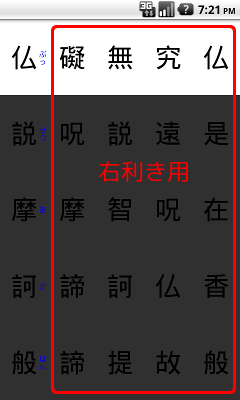
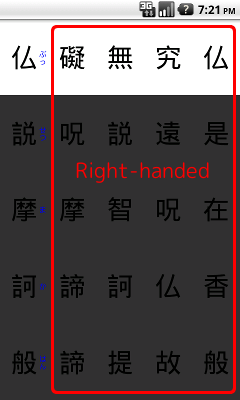
英語版の遊び方を追加した

Changed region(s): [[0.2917, 0.39, 0.875, 0.48]]

diff --git a/assets/usage.html b/assets/usage.html
@@ -1,7 +1,7 @@
 <html>
 <head>
 <meta http-equiv="Content-Type" content="text/html; charset=utf-8">
-<title>遊び方</title>
+<title>How To Play</title>
 <style type="text/css">
 h3 {
   border: solid;
@@ -30,101 +30,105 @@ li {
 </style>
 </head>
 <body>
-<h1>遊び方</h1>
-<h2>目次</h2>
+<h1>How To Play</h1>
+<h2>Table of contents</h2>
 <ol>
-<li><a href="#head1">1. はじめに</a></li>
-<li><a href="#head2">2. ゲームの開始の前に</a></li>
-<li><a href="#head3">3. 画面説明</a></li>
-<li><a href="#head4">4. ゲームのスタート</a></li>
-<li><a href="#head5">5. ゲームの一時停止</a></li>
-<li><a href="#head6">6. 278文字の旅</a></li>
-<li><a href="#head7">7. 最後に</a></li>
+<li><a href="#head1">1. Introduction</a></li>
+<li><a href="#head2">2. Before the start of the game</a></li>
+<li><a href="#head3">3. Screen Description</a></li>
+<li><a href="#head4">4. Start of the game</a></li>
+<li><a href="#head5">5. Pause game</a></li>
+<li><a href="#head6">6. Journey of 278 characters</a></li>
+<li><a href="#head7">7. At the end</a></li>
 </ol>
 
-<h3 id="head1">１．はじめに</h3>
-<p>このたびは、４時起きソフトの「よんたく般若心経」をダウンロードいただき、誠にありがとうございます。</p>
-<p>このアプリケーションは、般若心経をゲームで遊んでいるうちに覚えてしまおうという目的のもとに開発されました。</p>
-<p>ゲームをスタートしますと、画面に般若心経が縦書で表示されます（図1-A）。その横に４つの文字が表示されます（図1-B）。</p>
-<div><p>図1</p><img src="zu1.png" alt="図1"/></div>
-<p>この４つの文字の中から正しい文字を探してタップしていくゲームです。</p>
-<p>般若心経が読み進められるスピードは４段階（遅い・普通・早い・自分のペースで）があり、
-設定により調節可能です（インストール直後は自分のペースになっています）</p>
+<h3 id="head1">1. Introduction</h3>
+<p>Thank you, I have downloaded the "4 Choice Heart Sutra" of Yojiokisoft, Thank you very much.</p>
+<p>This application was developed on the basis of objective and that Let's remember while you are playing the game the Heart Sutra.</p>
+<p>When you start the game, Heart Sutra is displayed vertically on the screen (Figure1-A).Four characters will be displayed next to it (Figure1-B).</p>
+<div><p>Figure1</p><img src="zu1.png" alt="Figure1"/></div>
+<p>It is a game that will continue to tap to find the correct character from the character of these four.</p>
+<p>There are four levels of speed Heart Sutra can be read on (Slow, Normal, Fast, At one's own pace),
+It can be adjusted by setting. (I'm getting my own pace immediately after installation)</p>
 
-<h3 id="head2">２．ゲームの開始の前に</h3>
-<p>設定画面で以下の項目が調整可能です。お好みにより調整してください。</p>
-<h4>練習モード</h4>
-<p>チェックしますと練習モードになり、ブルームーンの大きなボタンが１つだけ表示されます（図2）。</p>
-<div><p>図2</p><img src="zu2.png" alt="図2"/></div>
-<p>４つの文字の中から文字を探す必要はなく、単に大きなボタンをタップするだけです。
-リズム感をつかむためや、リズムに乗って（あるいは自分のペースで）お経を唱える
-ときに使用できます。</p>
-<h4>読み上げる速さ</h4>
-<p>カーソル（白い背景の部分）が進んでいく速さを設定します。
-自分で、遅い、普通、早いの４段階の設定が可能です。
-「自分で」を選択した場合は、自動でカーソルは進まず、タップすることでカーソルが進んでいきます。</p>
-<h4>ボタン配置</h4>
-<p>右（右利き用）にしますと、４つの選択肢が右側に、般若心経（フリガナ付き）が左側に表示されます（図3）。</p>
-<div><p>図3</p><img src="zu3.png" alt="図3"/></div>
-<p>左（左利き用）にしますと、４つの選択肢が左側に、般若心経（フリガナ付き）が右側に表示されます（図4）</p>
-<div><p>図4</p><img src="zu4.png" alt="図4"/></div>
-<h4>合いの手の音</h4>
-<p>お経を唱えている途中で入るカーンとかチーンとかいう合いの手の音を設定します。いろんな音がありますのでお好みにより調節してください。
-もちろん、音を出さなくすることも可能です。</p>
-<h4>リズム音</h4>
-<p>ボタンをタップしたときの音を設定します。いろんな音がありますのでお好みにより調節してください。
-もちろん、音を出さなくすることも可能です。</p>
+<h3 id="head2">2. Before the start of the game</h3>
+<p>The following items can be adjusted in the Settings screen. Please adjust by preference.</p>
+<h4>Practice mode</h4>
+<p>It becomes a practice mode when I checked, big button blue moon appears only one (Figure2).</p>
+<div><p>Figure2</p><img src="zu2.png" alt="Figure2"/></div>
+<p>There is no need to look for a character from among the four characters, I just tap the large button simply.
+It can be used and seize the sense of rhythm, when (at your own pace or) recite the sutra to the rhythm.</p>
+<h4>The speed of read</h4>
+<p>I set the speed at which the (Part of white background) will proceed cursor.
+Set of four steps Slow, Normal, Fast, and By oneself are possible.
+If you select "By oneself", the cursor does not proceed automatically, the cursor will advance by tapping.</p>
+<h4>Button layout</h4>
+<p>When will the (right-handed) right, to the right, four choices are displayed on the left side is Heart Sutra (phonetic) with (Figure3).</p>
+<div><p>Figure3</p><img src="zu3.png" alt="Figure3"/></div>
+<p>When will the (left-handed) left, to the left, four choices are displayed on the right side is Heart Sutra (phonetic) with (Figure4).</p>
+<div><p>Figure4</p><img src="zu4.png" alt="Figure4"/></div>
+<h4>Accompaniment sound</h4>
+<p>You can set the sound of sideshow or something such as bing Khan entering while you are chanting sutras.
+Please adjust by preference because there is a lot of sound.
+Of course, it is also possible to not issue a sound.</p>
+<h4>Rhythm sound</h4>
+<p>You can set the sound when you tap the button.
+Please adjust by preference because there is a lot of sound.
+Of course, it is also possible to not issue a sound.</p>
 
-<h3 id="head3">３．画面説明</h3>
-<div><p>図5</p><img src="zu5.png" alt="図5"/></div>
-<h4>図5-A（青い部分）</h4>
-<p>般若心経が表示されます。設定画面のボタン配置が左利き用になっている場合は、右側に表示されます。</p>
-<p>ゲーム中にこの部分をタップしますとポーズ（一時停止）します。</p>
-<h4>図5-B（赤い部分）</h4>
-<p>４つの文字が表示されます。この中に１つだけ左側に表示されている般若心経と同じ文字がありますので、
-探してください。４つのうちのいずれかをタップしますと次の文字に進みます。
-<h4>図5-C（黄色い部分）</h4>
-<p>白い背景の部分が現在の読み上げ位置です。タップ、または一定時間が経過しますと
-自動で次の文字に進みます。一番下まで進みますと上に戻ります。<br>
-※設定画面の読み上げる速さが「自分で」の場合は、タップするまで次の文字には進みません。</p>
+<h3 id="head3">3. Screen Description</h3>
+<div><p>Figure5</p><img src="zu5.png" alt="Figure5"/></div>
+<h4>Figure5-A (Blue part)</h4>
+<p>Heart Sutra is displayed.If the button for the filter screen is left-handed, it is displayed on the right side.</p>
+<p>You pause and then tap this part during the game.</p>
+<h4>Figure5-B (Red part)</h4>
+<p>Four characters will be displayed.Because there is the same letter as the Heart Sutra, which is displayed on the left side only one in this,
+Please looking for.Proceed to the next character and tap any of the four.</p>
+<h4>Figure5-C (Yellow part)</h4>
+<p>Part of the white background is the current reading position.
+Proceed to the next character in a certain period of time or automatic tap, when you passed.
+To return to the top if you go to the bottom.<br>
+*In the case of "By oneself", the read speed of the configuration screen does not go to the next character until you tap.</p>
 
-<h3 id="head4">４．ゲームのスタート</h3>
-<p>最初の１文字をタップしますとゲームが開始されます。</p>
+<h3 id="head4">4. Start of the game</h3>
+<p>Game begins when you tap the first letter of the.</p>
 
-<h3 id="head5">５．ゲームの一時停止</h3>
-<p>般若心経の行（フリガナが振ってある文字、図5-A）をタップしますと一時停止します。（図6）</p>
-<div><p>図6</p><img src="zu6.png" alt="図6" class="waku"/></div>
-<p>再開するには、「再開」ボタンをタップするか、Androidの戻るキーを押します。</p>
-<p>「最初から始める」を選択しますと、ゲームの最初（１文字目）に戻ります。</p>
-<p>「オープニング画面に戻る」を選択しますと、起動直後のオープニング画面に戻ります。</p>
-<p>「ゲームの終了」を選択しますと、本アプリケーションを終了します。</p>
+<h3 id="head5">5. Pause game</h3>
+<p>To pause the tap (phonetic characters are and swept, Figure5-A) the line of Heart Sutra (Figure6).</p>
+<div><p>Figure6</p><img src="zu6.png" alt="Figure6" class="waku"/></div>
+<p>To resume, tap the "Resume" button, and press the key to return the Android.</p>
+<p>If you choose to "Start from th beginning", to return to the (first character) first game.</p>
+<p>If you choose to "Return to the opening screen", to return to the opening screen immediately after the start.</p>
+<p>If you select the "End of the game", and then exit the application.</p>
 
-<h3 id="head6">６．278文字の旅</h3>
-<p>般若心経は、全部で２７８文字あります。</p>
-<p>最後の２７８文字目まで読み進めていきますとゲーム終了です。（図7）</p>
-<div><p>図7</p><img src="zu7.png" alt="図7" class="waku"/></div>
-<p>お疲れ様でしたの下にスコアが表示されます。</p>
-<p>Levelには、スコアに応じて代表的な仏様が表示されます。最高ランクの釈迦如来を出された方は、人間を超越したまさに神レベルの方です。</p>
-<p>OKは正解の数、NGは間違いの数、SKは一定時間内にタップできずにスキップされた数、TMはかかった時間（秒）を表します。</p>
-<p>「リプレイ」を選択しますと、もう一度ゲームを行います。</p>
-<p>「オープニング画面に戻る」を選択しますと、起動直後のオープニング画面に戻ります。</p>
-<p>「ゲームの終了」を選択しますと、本アプリケーションを終了します。</p>
-<h4>ヒント</h4>
-<p>唱えるタイミングについて</p>
-<p>最初は、勝手にカーソルが進んでいくのでどのタイミングで唱えたらいいのか戸惑うかと思います。次の要領で唱えていただくように最適化しております。</p>
-<p>(1)白いカーソルの部分の文字を見て、なんと唱えたらいいかを把握します。（この時点ではまだ発声しない)</p>
-<p>(2)次に、実際に声に出して発声します。と同時に画面をタップします。（カーソルが次に進みます）
-<p>(3)(1)に戻り、繰り返します。</p>
-<p>ようは、白くなった瞬間に唱えるのではなく、カーソルが次に移るときに唱えます。</p>
-<p>なお、唱えるタイミングは、全国曹洞宗青年会さんの<a href="http://www.youtube.com/watch?v=InkJE2PMX3Y" alt="" target="_balnk">摩訶般若波羅蜜多心経</a>の動画を参考にさせていただきました。</p>
+<h3 id="head6">6. Journey of 278 characters</h3>
+<p>The Heart Sutra, there are 278 characters in total.</p>
+<p>It is the end of the game when I push forward reading to 278 character of the last (Figure7).</p>
+<div><p>Figure7</p><img src="zu7.png" alt="Figure7" class="waku"/></div>
+<p>Score appears at the bottom of was cheers for good work.</p>
+<p>The Level, Buddha typical will be displayed according to the score.
+Those who issued the Shaka-nyorai of highest rank, who of God is exactly level you transcend the human.</p>
+<p>OK The number of correct, NG is the number of mistakes, SK is the amount skipped without can tap within a certain period of time, TM represents the time (in seconds) it took.</p>
+<p>If you select the "Replay" to play the game again.</p>
+<p>If you choose to "Return to the opening screen", to return to the opening screen immediately after the start.</p>
+<p>If you select the "End of the game", and then exit the application.</p>
+<h4>Hint</h4>
+<p>The timing to cast</p>
+<p>At first, I think whether puzzled to do for chanting at any timing cursor will proceed on its own.
+We are optimized to get cast in the following manner.</p>
+<p>(1)Look at the character of the part of the white cursor, and then figure out how do I cast what. (It is not uttered at this point yet)</p>
+<p>(2)Next, Say it out loud actually.At the same time I tap the screen. (The cursor will continue)
+<p>(3)Go back to (1), and repeat.</p>
+<p>Short, instead of cast at the moment when it became white, and cast when the cursor moves next.</p>
+<p>The timing you cast it, I was allowed to reference the video of <a href="http://www.youtube.com/watch?v=InkJE2PMX3Y" alt="" target="_balnk">Prajna-paramita Hrdaya Sutram</a> in the All Japan Soto Young Priests Association.</p>
 
-<h3 id="head7">７．最後に</h3>
-<p>般若心経とは、大乗仏教の心髄が説かれている、ありがたいお経とされています。</p>
-<p>が、何回読んでも全く意味がわかりません。</p>
-<p>意味が分からないものを、意味もなく唱える、意味って何？</p>
-<p>意味が知りたくて、いろんな人のさまざまな解釈を読みましたが、ピンとこない。</p>
-<p>その中で、私がなるほどと理解できた動画をリンクしておきます。</p>
-<p><a href="http://www.youtube.com/watch?v=X9ebjqEUtYE" alt="" target="_balnk">宇宙論に対する仏教思想からの回答</a></p>
+<h3 id="head7">7. At the end</h3>
+<p>The Heart Sutra, it is being preached the essence of Mahayana Buddhism, and appreciate sutra.</p>
+<p>But, I do not know what sense at all times even after reading.</p>
+<p>What recite without a sense, what you do not know the meaning, meaning me?</p>
+<p>I wanted to know the meaning, I read a variety of interpretations of various people, but not really realize.</p>
+<p>Among them, you may want to link this video I was able to understand and as I made.</p>
+<p><a href="http://www.youtube.com/watch?v=X9ebjqEUtYE" alt="" target="_balnk">Responses from Buddhist thought to cosmology</a>(Japanese)</p>
 
 </body>
 </html>

diff --git a/assets/usage-ja.html b/assets/usage-ja.html
@@ -1,0 +1,130 @@
+<html>
+<head>
+<meta http-equiv="Content-Type" content="text/html; charset=utf-8">
+<title>遊び方</title>
+<style type="text/css">
+h3 {
+  border: solid;
+  border-width: 0px 0px 1px 10px;
+  padding: 5px;
+  border-color: #992222;
+  font-size: 120% ;
+}
+h4 {
+  background-image: url('triangle.gif');
+  background-repeat: no-repeat;
+  padding-left: 10px;
+  background-position: 0px 6px;
+}
+li {
+  list-style-type: none;
+  background-image: url('triangle.gif');
+  background-repeat: no-repeat;
+  background-position: 0px 6px;
+  text-indent: 18px;
+}
+.waku {
+  border: 1px #000000 solid;
+}
+*.rectangle  { border:solid 1px #ff0000; }
+</style>
+</head>
+<body>
+<h1>遊び方</h1>
+<h2>目次</h2>
+<ol>
+<li><a href="#head1">1. はじめに</a></li>
+<li><a href="#head2">2. ゲームの開始の前に</a></li>
+<li><a href="#head3">3. 画面説明</a></li>
+<li><a href="#head4">4. ゲームのスタート</a></li>
+<li><a href="#head5">5. ゲームの一時停止</a></li>
+<li><a href="#head6">6. 278文字の旅</a></li>
+<li><a href="#head7">7. 最後に</a></li>
+</ol>
+
+<h3 id="head1">１．はじめに</h3>
+<p>このたびは、４時起きソフトの「よんたく般若心経」をダウンロードいただき、誠にありがとうございます。</p>
+<p>このアプリケーションは、般若心経をゲームで遊んでいるうちに覚えてしまおうという目的のもとに開発されました。</p>
+<p>ゲームをスタートしますと、画面に般若心経が縦書で表示されます（図1-A）。その横に４つの文字が表示されます（図1-B）。</p>
+<div><p>図1</p><img src="zu1.png" alt="図1"/></div>
+<p>この４つの文字の中から正しい文字を探してタップしていくゲームです。</p>
+<p>般若心経が読み進められるスピードは４段階（遅い・普通・早い・自分のペースで）があり、
+設定により調節可能です（インストール直後は自分のペースになっています）</p>
+
+<h3 id="head2">２．ゲームの開始の前に</h3>
+<p>設定画面で以下の項目が調整可能です。お好みにより調整してください。</p>
+<h4>練習モード</h4>
+<p>チェックしますと練習モードになり、ブルームーンの大きなボタンが１つだけ表示されます（図2）。</p>
+<div><p>図2</p><img src="zu2.png" alt="図2"/></div>
+<p>４つの文字の中から文字を探す必要はなく、単に大きなボタンをタップするだけです。
+リズム感をつかむためや、リズムに乗って（あるいは自分のペースで）お経を唱える
+ときに使用できます。</p>
+<h4>読み上げる速さ</h4>
+<p>カーソル（白い背景の部分）が進んでいく速さを設定します。
+自分で、遅い、普通、早いの４段階の設定が可能です。
+「自分で」を選択した場合は、自動でカーソルは進まず、タップすることでカーソルが進んでいきます。</p>
+<h4>ボタン配置</h4>
+<p>右（右利き用）にしますと、４つの選択肢が右側に、般若心経（フリガナ付き）が左側に表示されます（図3）。</p>
+<div><p>図3</p><img src="zu3-ja.png" alt="図3"/></div>
+<p>左（左利き用）にしますと、４つの選択肢が左側に、般若心経（フリガナ付き）が右側に表示されます（図4）</p>
+<div><p>図4</p><img src="zu4-ja.png" alt="図4"/></div>
+<h4>合いの手の音</h4>
+<p>お経を唱えている途中で入るカーンとかチーンとかいう合いの手の音を設定します。いろんな音がありますのでお好みにより調節してください。
+もちろん、音を出さなくすることも可能です。</p>
+<h4>リズム音</h4>
+<p>ボタンをタップしたときの音を設定します。いろんな音がありますのでお好みにより調節してください。
+もちろん、音を出さなくすることも可能です。</p>
+
+<h3 id="head3">３．画面説明</h3>
+<div><p>図5</p><img src="zu5.png" alt="図5"/></div>
+<h4>図5-A（青い部分）</h4>
+<p>般若心経が表示されます。設定画面のボタン配置が左利き用になっている場合は、右側に表示されます。</p>
+<p>ゲーム中にこの部分をタップしますとポーズ（一時停止）します。</p>
+<h4>図5-B（赤い部分）</h4>
+<p>４つの文字が表示されます。この中に１つだけ左側に表示されている般若心経と同じ文字がありますので、
+探してください。４つのうちのいずれかをタップしますと次の文字に進みます。</p>
+<h4>図5-C（黄色い部分）</h4>
+<p>白い背景の部分が現在の読み上げ位置です。タップ、または一定時間が経過しますと
+自動で次の文字に進みます。一番下まで進みますと上に戻ります。<br>
+※設定画面の読み上げる速さが「自分で」の場合は、タップするまで次の文字には進みません。</p>
+
+<h3 id="head4">４．ゲームのスタート</h3>
+<p>最初の１文字をタップしますとゲームが開始されます。</p>
+
+<h3 id="head5">５．ゲームの一時停止</h3>
+<p>般若心経の行（フリガナが振ってある文字、図5-A）をタップしますと一時停止します。（図6）</p>
+<div><p>図6</p><img src="zu6-ja.png" alt="図6" class="waku"/></div>
+<p>再開するには、「再開」ボタンをタップするか、Androidの戻るキーを押します。</p>
+<p>「最初から始める」を選択しますと、ゲームの最初（１文字目）に戻ります。</p>
+<p>「オープニング画面に戻る」を選択しますと、起動直後のオープニング画面に戻ります。</p>
+<p>「ゲームの終了」を選択しますと、本アプリケーションを終了します。</p>
+
+<h3 id="head6">６．278文字の旅</h3>
+<p>般若心経は、全部で２７８文字あります。</p>
+<p>最後の２７８文字目まで読み進めていきますとゲーム終了です。（図7）</p>
+<div><p>図7</p><img src="zu7-ja.png" alt="図7" class="waku"/></div>
+<p>お疲れ様でしたの下にスコアが表示されます。</p>
+<p>Levelには、スコアに応じて代表的な仏様が表示されます。最高ランクの釈迦如来を出された方は、人間を超越したまさに神レベルの方です。</p>
+<p>OKは正解の数、NGは間違いの数、SKは一定時間内にタップできずにスキップされた数、TMはかかった時間（秒）を表します。</p>
+<p>「リプレイ」を選択しますと、もう一度ゲームを行います。</p>
+<p>「オープニング画面に戻る」を選択しますと、起動直後のオープニング画面に戻ります。</p>
+<p>「ゲームの終了」を選択しますと、本アプリケーションを終了します。</p>
+<h4>ヒント</h4>
+<p>唱えるタイミングについて</p>
+<p>最初は、勝手にカーソルが進んでいくのでどのタイミングで唱えたらいいのか戸惑うかと思います。次の要領で唱えていただくように最適化しております。</p>
+<p>(1)白いカーソルの部分の文字を見て、なんと唱えたらいいかを把握します。（この時点ではまだ発声しない)</p>
+<p>(2)次に、実際に声に出して発声します。と同時に画面をタップします。（カーソルが次に進みます）
+<p>(3)(1)に戻り、繰り返します。</p>
+<p>ようは、白くなった瞬間に唱えるのではなく、カーソルが次に移るときに唱えます。</p>
+<p>なお、唱えるタイミングは、全国曹洞宗青年会さんの<a href="http://www.youtube.com/watch?v=InkJE2PMX3Y" alt="" target="_balnk">摩訶般若波羅蜜多心経</a>の動画を参考にさせていただきました。</p>
+
+<h3 id="head7">７．最後に</h3>
+<p>般若心経とは、大乗仏教の心髄が説かれている、ありがたいお経とされています。</p>
+<p>が、何回読んでも全く意味がわかりません。</p>
+<p>意味が分からないものを、意味もなく唱える、意味って何？</p>
+<p>意味が知りたくて、いろんな人のさまざまな解釈を読みましたが、ピンとこない。</p>
+<p>その中で、私がなるほどと理解できた動画をリンクしておきます。</p>
+<p><a href="http://www.youtube.com/watch?v=X9ebjqEUtYE" alt="" target="_balnk">宇宙論に対する仏教思想からの回答</a></p>
+
+</body>
+</html>

diff --git a/src/com/yojiokisoft/sutramojiseek/UsageActivity.java b/src/com/yojiokisoft/sutramojiseek/UsageActivity.java
@@ -15,6 +15,8 @@
 
 package com.yojiokisoft.sutramojiseek;
 
+import java.util.Locale;
+
 import android.app.Activity;
 import android.os.Bundle;
 import android.view.Window;
@@ -31,6 +33,10 @@ public class UsageActivity extends Activity {
 		setContentView(R.layout.activity_usage);
 
 		WebView webView = (WebView) findViewById(R.id.webView);
-		webView.loadUrl("file:///android_asset/usage.html");
+		if (Locale.JAPAN.equals(Locale.getDefault())) {
+			webView.loadUrl("file:///android_asset/usage-ja.html");
+		} else {
+			webView.loadUrl("file:///android_asset/usage.html");
+		}
 	}
 }
